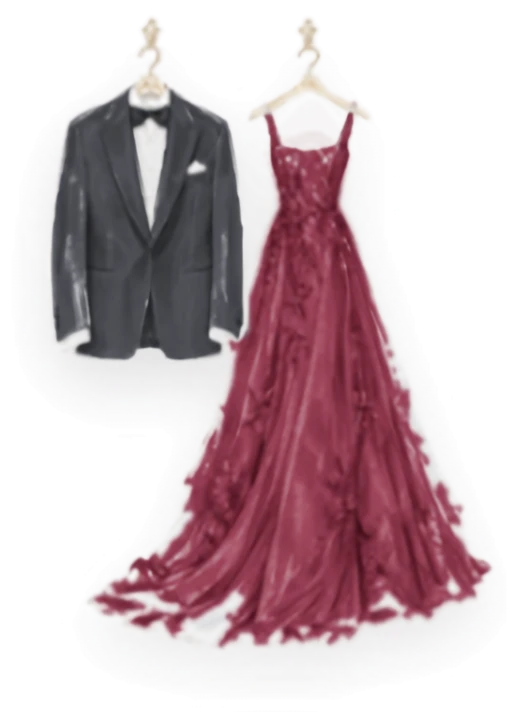
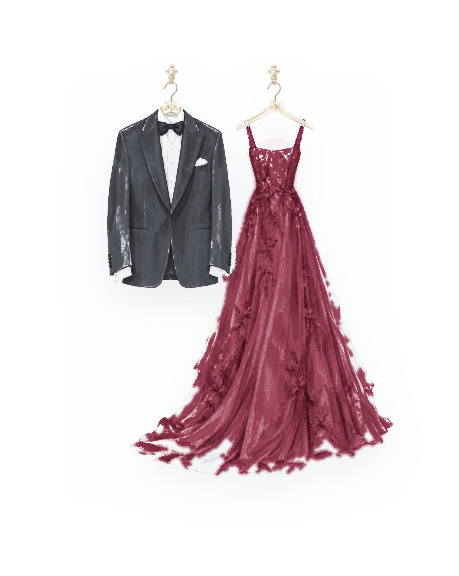
l47wr2d بطلب المالك: رسمة البدلة والفستان تحت الدريس كود بقت نفس الرسمة اللي في دعوة DBywdm2 (نفس الملف) ومعروضة زيها بالظبط — لوحدها من غير إطار ولا ظل، في النسختين العربي والإنجليزي.
Claude-Session: https://claude.ai/code/session_01VKo1mDPNtVn8Qfu3XE46sB

Changed region(s): [[0.0915, 0.0312, 0.9455, 0.9375]]

diff --git a/custom-invitations/l47wr2d.js b/custom-invitations/l47wr2d.js
@@ -7,6 +7,7 @@
 //     حسب النبي")، وبسم الله فوق الكارت الأول. الإنجليزي: "Ahmed Hasab El Naby & Jilan Hossam" زي ما كتبها.
 //   • برنامج الحفل + الزي (قسم جديد بنفس شكل القالب بعد المكان)، صورة القاعة فوق الخريطة، و3 صور العروسين في
 //     الألبوم (علامة المصوّر Ahmed Bebo فاضلة زي ما هي)، وجملة الختام في سطر الختام (cl83).
+//   • تحت الدريس كود رسمة البدلة والفستان (نفس ملف DBywdm2) لوحدها — المالك رفض الإطار والظل.
 // الأسامي/التاريخ/المكان/الخريطة متخزّنين في بيانات الدعوة نفسها (utils/oneOffFixes.js: l47wr2d-ahmed-jilan) عشان
 // الداشبورد والتقويم والحضور. في المحرر (editMode) الملف ده مابيعملش أي حاجة — القالب بيتعرض زي ما هو.
 const { asset } = require('./_asset');
@@ -136,12 +137,9 @@ body.cl-ar .l4d-sub{direction:ltr}
 .l4d--in .l4d-card{animation-delay:.26s}
 .l4d--in .l4d-stage > :nth-child(n+4){animation-delay:.4s}
 
-/* صورة الزي (بدلة + فستان) تحت الدريس كود — جوه قوس عاجي بخط دهبي زي قوس الخريطة */
-.l4d-attire{position:relative;width:216px;height:282px;margin:26px auto 0;padding:8px;border-radius:108px 108px 3px 3px;background:#fbf8f2;
-  box-shadow:0 1px 1px rgba(60,44,28,.14),0 3px 8px rgba(60,44,28,.08),6px 18px 34px -14px rgba(60,44,28,.45)}
-.l4d-attire::after{content:"";position:absolute;inset:3px;border-radius:105px 105px 2px 2px;border:1px solid rgba(164,140,105,.55);pointer-events:none}
-.l4d-attire img{display:block;width:100%;height:100%;object-fit:contain;padding:22px 14px 10px;border-radius:100px 100px 1px 1px;
-  background:radial-gradient(ellipse at 50% 42%,#fffdf9 0%,#f6f0e6 100%)}
+/* صورة الزي (بدلة + فستان) تحت الدريس كود — نفس رسمة DBywdm2 وبنفس طريقة عرضها هناك: لوحدها، من غير إطار ولا ظل */
+.l4d-attire{position:relative;width:200px;height:250px;margin:30px auto 0}
+.l4d-attire img{position:absolute;left:-13.75%;top:-10.2%;width:127.5%;height:128%;max-width:none}
 
 /* ===== الختام ===== */
 body.cl-ar .cl-note{font-size:20px}
@@ -191,7 +189,7 @@ function details(D){
     +'<div class="l4d-card">'+r+'<p class="l4d-follow">'+esc(D.follow)+'</p></div>'
     +'<div class="l4d-rule"></div><p class="l4d-eyebrow">'+esc(D.dressEyebrow)+'</p><p class="l4d-dress">'+esc(D.dress)+'</p>'
     +(D.dressSub?'<p class="l4d-sub">'+esc(D.dressSub)+'</p>':'')+'<p class="l4d-note">'+esc(D.dressNote)+'</p>'
-    +'<figure class="l4d-attire"><img src="'+X.attire+'" alt="'+esc(D.attireAlt)+'" width="520" height="712" decoding="async" loading="lazy"></figure>';
+    +'<figure class="l4d-attire"><img src="'+X.attire+'" alt="'+esc(D.attireAlt)+'" width="459" height="576" decoding="async" loading="lazy" draggable="false"></figure>';
 }
 function apply(g){
   build();
